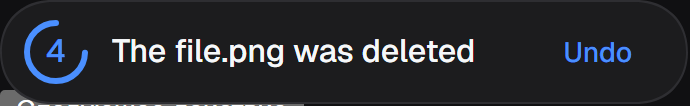
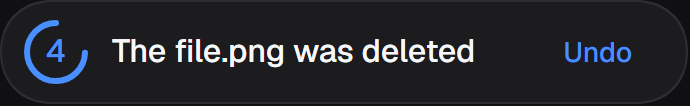
fix(snackbar): animate through public Motion coordinate API

Changed region(s): [[0.0, 0.8491, 0.4565, 1.0]]

diff --git a/apps/docs/tests/snackbar.spec.ts b/apps/docs/tests/snackbar.spec.ts
@@ -15,9 +15,24 @@ test.beforeEach(async ({ page }) => {
 });
 test.afterEach(async ({ page }) => {
   expect(pageErrors.get(page)).toEqual([]);
+  expect(await page.evaluate(() => window.snackbarErrors)).toEqual([]);
 });
 
 for (const renderer of ['lit', 'react'] as const) {
+  test(`${renderer}: обычное движение приходит в конечное положение`, async ({ page }) => {
+    await page.emulateMedia({ reducedMotion: 'no-preference' });
+    await page.evaluate((name) => window.snackbarControls[name]?.show(), renderer);
+    const panel = page.getByTestId(`${renderer}-snackbar`).locator('[data-lab-snackbar]');
+    await expect(panel).toBeVisible();
+    await page.clock.runFor(500);
+    await expect
+      .poll(() =>
+        panel.evaluate((element) => new DOMMatrix(getComputedStyle(element).transform).m42),
+      )
+      .toBe(0);
+    await expect(panel.locator('.lab-snackbar-count')).toHaveText('5');
+  });
+
   test(`${renderer}: авторская геометрия, сообщение и пять шагов без перехвата фокуса`, async ({
     page,
   }) => {
@@ -43,6 +58,9 @@ for (const renderer of ['lit', 'react'] as const) {
       ];
     });
     expect(geometry).toEqual([52, '12px', '8px', '24px', 32]);
+    expect(
+      await panel.evaluate((element) => new DOMMatrix(getComputedStyle(element).transform).m42),
+    ).toBe(0);
     for (const seconds of [4, 3, 2, 1]) {
       await page.clock.runFor(1000);
       await expect(panel.locator('.lab-snackbar-count')).toHaveText(String(seconds));

diff --git a/apps/docs/src/snackbar.tsx b/apps/docs/src/snackbar.tsx
@@ -15,9 +15,11 @@ interface Control {
 declare global {
   interface Window {
     snackbarControls: Partial<Record<Renderer, Control>>;
+    snackbarErrors: unknown[];
   }
 }
 window.snackbarControls = {};
+window.snackbarErrors = [];
 const field = document.querySelector<LabSnackbar>('lab-snackbar');
 if (!field) throw new Error('Missing Lit Snackbar');
 const lit: Control = {
@@ -39,6 +41,9 @@ const lit: Control = {
 window.snackbarControls.lit = lit;
 field.addEventListener('lab-open-change', () => lit.closed++);
 field.addEventListener('lab-action', () => lit.actions++);
+field.addEventListener('lab-error', (event) =>
+  window.snackbarErrors.push((event as CustomEvent).detail.error.message),
+);
 document.querySelector('#show-lit')?.addEventListener('click', () => lit.show());
 
 function Example() {
@@ -84,6 +89,7 @@ function Example() {
         onAction={() => {
           control.actions++;
         }}
+        onRuntimeError={(error) => window.snackbarErrors.push(String(error))}
       />
     </>
   );

diff --git a/packages/core/src/components/snackbar/runtime.ts b/packages/core/src/components/snackbar/runtime.ts
@@ -205,10 +205,9 @@ export function mountSnackbarRuntime(
           } else if (/^(linear|ease|ease-in|ease-out|ease-in-out)$/.test(easingCss)) {
             ease = easingCss as MotionEase;
           }
-          panel.style.transform = 'translateY(0.5rem)';
           const playback = motion.animate(
             panel,
-            { transform: 'translateY(0px)' },
+            { y: [8, 0] },
             {
               duration,
               ease,

diff --git a/apps/docs/src/experience.tsx b/apps/docs/src/experience.tsx
@@ -243,6 +243,7 @@ function Workspace() {
         notificationKey={notice?.key}
         actionLabel={notice?.undo ? 'Отменить' : undefined}
         onAction={undo}
+        onRuntimeError={(error) => reportError(error)}
         onOpenChange={(next) => {
           if (!next) setNotice(null);
         }}
